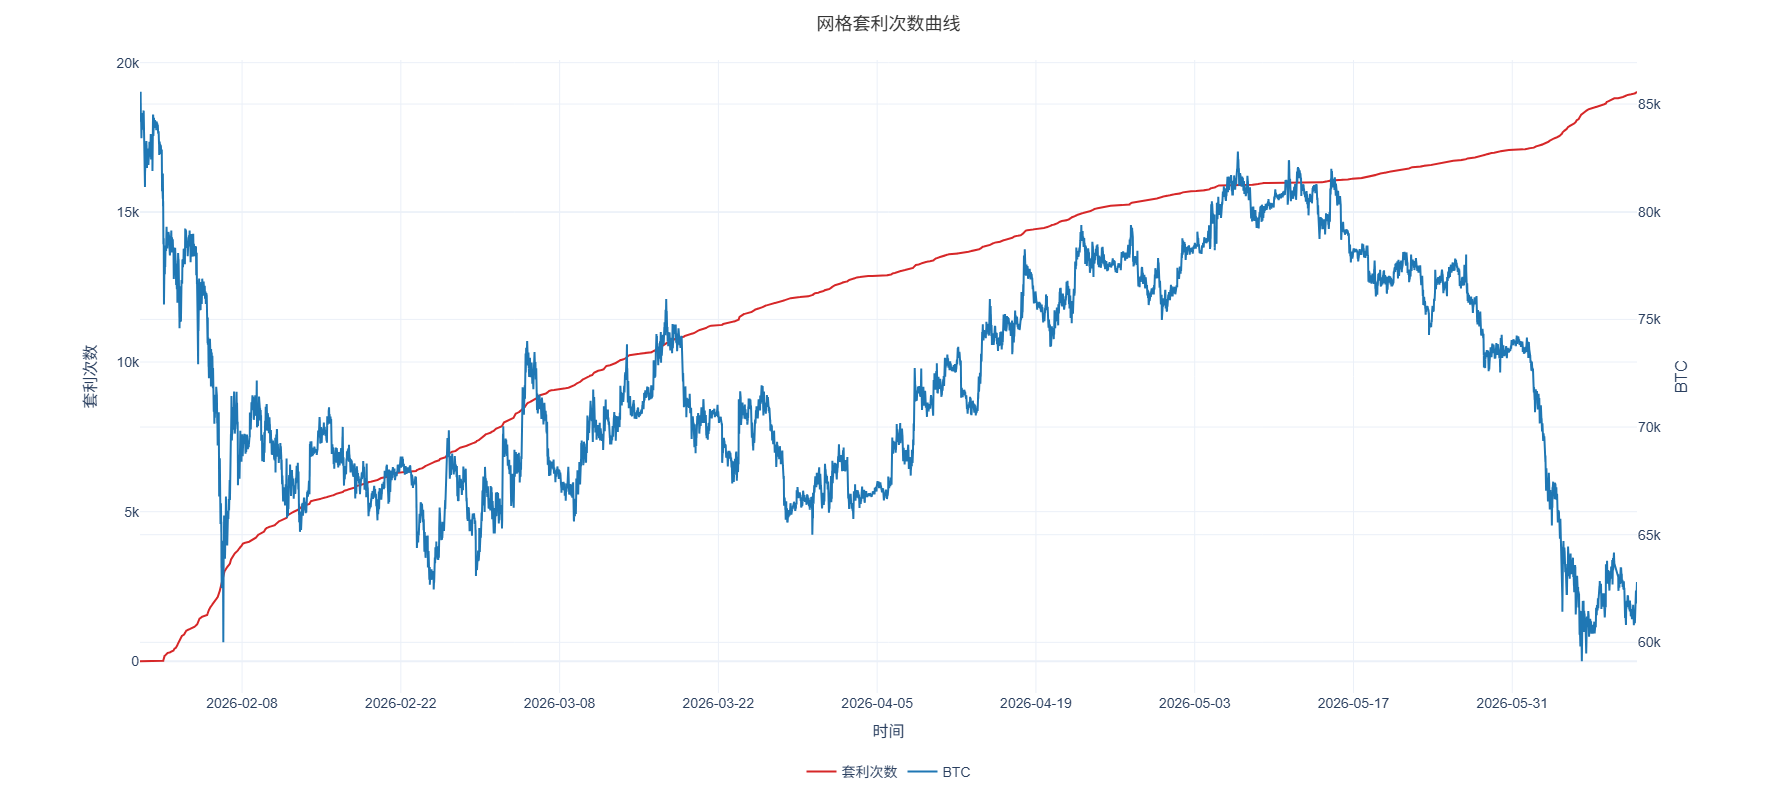
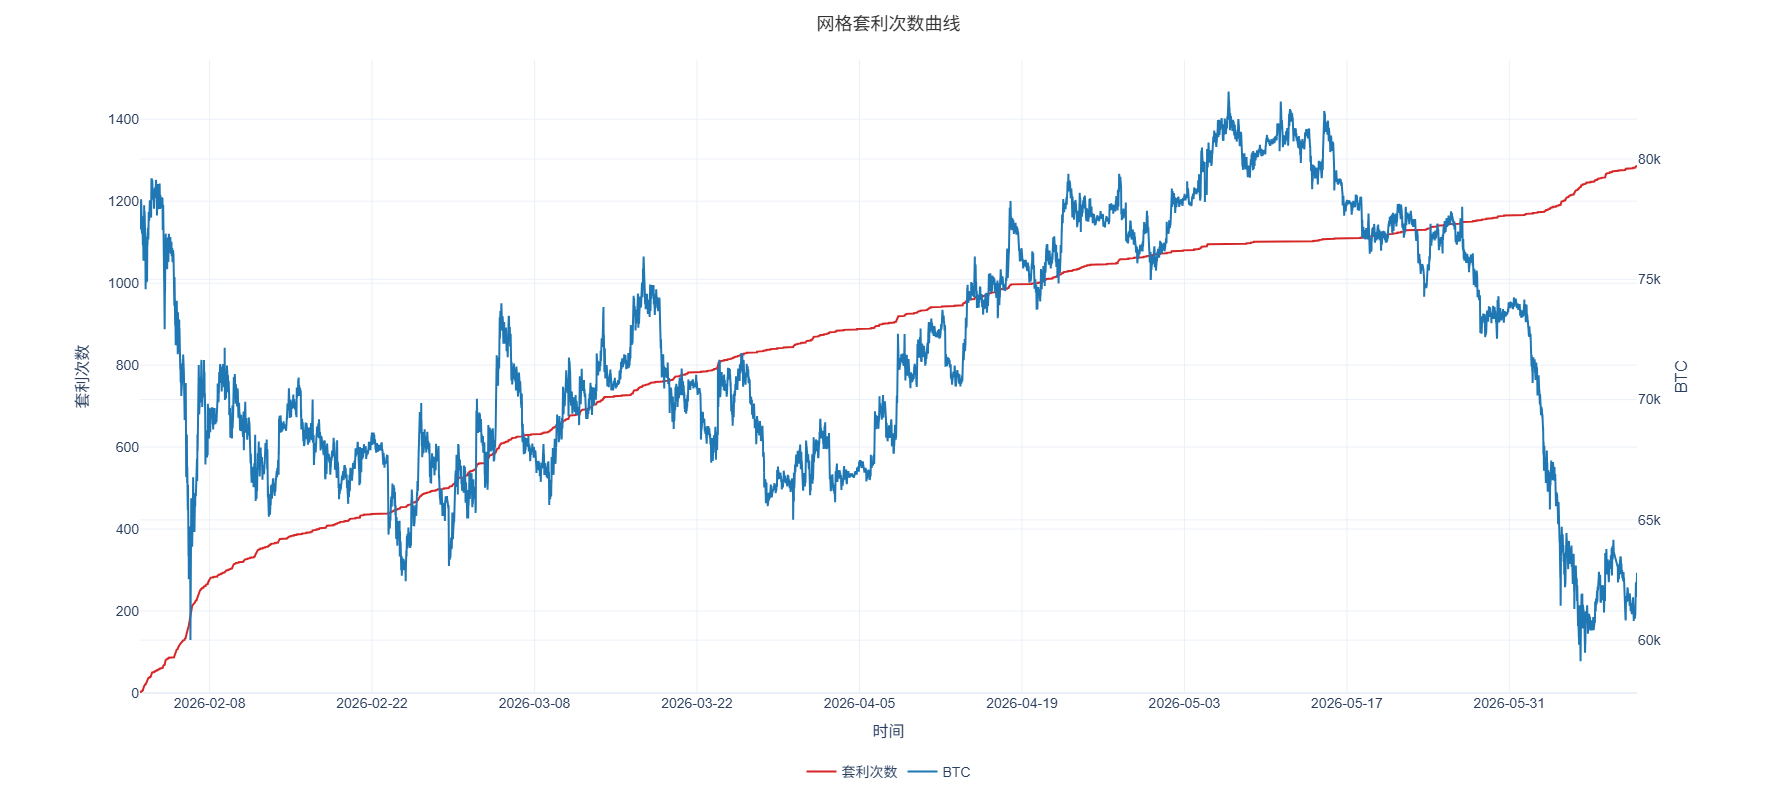
修改html、舍入精度、readme等

diff --git a/modules/visualization.py b/modules/visualization.py
@@ -308,10 +308,6 @@ class Visualization:
         
         <div class="summary-card">
             <div class="card">
-                <div class="label">初始保证金</div>
-                <div class="value">${self.results['initial_margin']:.2f}</div>
-            </div>
-            <div class="card">
                 <div class="label">最终权益</div>
                 <div class="value">${self.results['final_equity']:.2f}</div>
             </div>
@@ -324,12 +320,16 @@ class Visualization:
                 <div class="value">{self.results['return_rate']:.2f}%</div>
             </div>
             <div class="card">
+                <div class="label">网格套利利润</div>
+                <div class="value">${self.results['grid_arbitrage_pnl']:.2f}</div>
+            </div>
+            <div class="card">
                 <div class="label">网格套利次数</div>
                 <div class="value">{self.results['grid_arbitrage_count']}</div>
             </div>
             <div class="card">
-                <div class="label">总手续费</div>
-                <div class="value">${self.results['total_fee']:.2f}</div>
+                <div class="label">网格套利年化收益率</div>
+                <div class="value">{self.results['grid_annualized_return']:.2f}%</div>
             </div>
             <div class="card">
                 <div class="label">最大回撤</div>

diff --git a/modules/grid_strategy.py b/modules/grid_strategy.py
@@ -172,7 +172,7 @@ class GridStrategy:
             # 用平均价格计算基准张数，所有网格统一用这个张数
             avg_grid_price = self.calculate_portfolio_avg_entry()
             position_size_per_grid = position_value_per_grid / avg_grid_price
-            lots_per_grid = round(position_size_per_grid / self.contract_size, 2)
+            lots_per_grid = position_size_per_grid / self.contract_size
             self.safe_lots_per_grid = max(lots_per_grid, self.min_lot_size)
             self.notional_per_grid = None
         else:
@@ -182,7 +182,7 @@ class GridStrategy:
             # 用平均价格计算一个基准张数（仅供参考显示）
             avg_grid_price = self.calculate_portfolio_avg_entry()
             reference_size = position_value_per_grid / avg_grid_price
-            reference_lots = round(reference_size / self.contract_size, 2)
+            reference_lots = reference_size / self.contract_size
             self.safe_lots_per_grid = max(reference_lots, self.min_lot_size)
         
         return self.safe_lots_per_grid
@@ -352,8 +352,9 @@ class GridStrategy:
             prec = 4
         else:
             prec = 2
-        amt_str = f"{position_amt:.{prec}f}".rstrip('0').rstrip('.')
-        p(f"  开仓数量: {amt_str} {self.contract_type}")
+        # 显示时保留4位小数，但内部计算仍使用原始精度
+        display_amt = f"{position_amt:.4f}"
+        p(f"  开仓数量: {display_amt} {self.contract_type}")
         
         # 预估强平价（所有网格都开仓时）
         safety_results = self.verify_strategy_safety(total_margin)

diff --git a/README.md b/README.md
@@ -1,6 +1,6 @@
 # 合约网格策略回测系统
 
-基于 Python 的合约网格策略历史回测系统，采用Trae、Qoder辅助开发，支持从 **Binance 交易所**获取 USDT 本位永续合约K线数据，进行网格策略回测并生成可视化报告。
+基于 Python 的合约网格策略历史回测系统，采用Trae、Qoder辅助开发，支持从 Binance交易所获取 USDT 本位永续合约K线数据，进行网格策略回测并生成可视化报告。
 
 ## 示例结果图
 
@@ -36,8 +36,7 @@ grid_test/
 │   └── visualization.py      # 可视化报告生成（Plotly HTML）
 ├── data/                     # K线数据缓存目录（Parquet 格式）
 ├── results/                  # 回测结果输出目录（xlsx + html）
-├── dist/GridTrading.exe      # 打包好的可执行程序
-└── .venv/                    # Python 虚拟环境
+└── dist/GridTrading.exe      # 打包好的可执行程序
 ```
 
 ## 快速开始
@@ -65,6 +64,17 @@ python gui.py
 
 # 或命令行回测
 python main.py --symbol ETH --lower_bound 1110.88 --upper_bound 2221.78 --grid_count 200 --leverage 3 --direction 多 --total_margin 10000
+```
+
+## CLI 命令行参数
+
+```bash
+python main.py --symbol ETH --lower_bound 1110.88 --upper_bound 2221.78 \
+               --grid_count 200 --grid_mode 等差 --leverage 3 \
+               --direction 多 --total_margin 10000 \
+               --start_time "2026-05-28 00:00:00" --end_time "2026-06-11 00:00:00" \
+               --kline_period 1m --contract_size 0.1 --min_lot_size 0.01 \
+               --taker_fee 0.0005 --maker_fee 0.0002
 ```
 
 ## GUI 参数说明
@@ -96,17 +106,6 @@ python fetch_specs.py
 
 该命令会从 OKX API 获取全部 USDT 本位永续合约的规格数据（contract_size 和 min_lot），并保存到 `contract_specs.json`。
 
-## CLI 命令行参数
-
-```bash
-python main.py --symbol ETH --lower_bound 1110.88 --upper_bound 2221.78 \
-               --grid_count 200 --grid_mode 等差 --leverage 3 \
-               --direction 多 --total_margin 10000 \
-               --start_time "2026-05-28 00:00:00" --end_time "2026-06-11 00:00:00" \
-               --kline_period 1m --contract_size 0.1 --min_lot_size 0.01 \
-               --taker_fee 0.0005 --maker_fee 0.0002
-```
-
 ## 核心算法
 
 - **等差网格**：价格区间均匀划分，每个网格固定张数
@@ -119,49 +118,49 @@ python main.py --symbol ETH --lower_bound 1110.88 --upper_bound 2221.78 \
 
 回测完成后，系统会在控制台打印以下指标：
 
-#### 1. **最终权益** (`final_equity`)
+#### 1. **最终权益** (**final_equity**)
 - **含义**: 回测结束时账户总资金（可用保证金 + 持仓保证金 + 总盈亏）
-- **计算公式**: `可用保证金 + 持仓保证金 + 总利润`
+- **计算公式**: 可用保证金 + 持仓保证金 + 总利润
 
-#### 2. **总利润** (`total_pnl`)
+#### 2. **总利润** (**total_pnl**)
 - **含义**: 回测期间账户净收益
-- **计算公式**: `(已实现利润 - 总手续费) + 未实现利润`
+- **计算公式**: (已实现利润 - 总手续费) + 未实现利润
 
-##### 2.1 **已实现利润** (`realized_pnl`)
+##### 2.1 **已实现利润** (**realized_pnl**)
 - **含义**: 所有平仓交易的净收益（扣除手续费）
 - **计算公式**: 平仓收益 - 总手续费
 
-##### 2.2 **未实现利润** (`unrealized_pnl`)
+##### 2.2 **未实现利润** (**unrealized_pnl**)
 - **含义**: 当前持仓按最后价格计算的浮动盈亏
 
-##### 2.3 **网格套利利润** (`grid_arbitrage_pnl`)
+##### 2.3 **网格套利利润** (**grid_arbitrage_pnl**)
 - **含义**: 纯粹网格套利收益（排除初始建仓影响）
-- **计算公式**: `套利次数 × 网格间距 × 单网格数量 - 网格交易手续费`
+- **计算公式**: 套利次数 × 网格间距 × 单网格数量 - 网格交易手续费
 
-#### 3. **总手续费** (`total_fee`)
+#### 3. **总手续费** (**total_fee**)
 - **含义**: 回测期间支付的所有手续费
 - **组成**: 初始建仓市价手续费 + 后续交易限价手续费
 
-#### 4. **网格套利次数** (`grid_arbitrage_count`)
+#### 4. **网格套利次数** (**grid_arbitrage_count**)
 - **含义**: 成功完成的网格套利交易次数（低买高卖或高卖低买）
 
-#### 5. **收益率** (`return_rate`)
+#### 5. **收益率** (**return_rate**)
 - **含义**: 回测期间总收益率
-- **计算公式**: `(总利润 / 初始保证金) × 100%`
+- **计算公式**: (总利润 / 初始保证金) × 100%
 
-#### 6. **年化收益率** (`annualized_return`)
+#### 6. **年化收益率** (**annualized_return**)
 - **含义**: 将回测收益折算为年化收益率
-- **计算公式**: `收益率 × (365 / 回测天数)`
+- **计算公式**: 收益率 × (365 / 回测天数)
 
-#### 7. **网格套利年化收益率** (`grid_annualized_return`)
+#### 7. **网格套利年化收益率** (**grid_annualized_return**)
 - **含义**: 基于纯粹网格套利收益的年化收益率
-- **计算公式**: `(网格套利利润 / 初始保证金) × (365 / 回测天数) × 100%`
+- **计算公式**: (网格套利利润 / 初始保证金) × (365 / 回测天数) × 100%
 
-#### 8. **最大回撤** (`max_drawdown`)
+#### 8. **最大回撤** (**max_drawdown**)
 - **含义**: 回测期间权益从峰值到谷值的最大跌幅
 - **重要性**: 衡量策略最大风险水平
 
-#### 9. **未平仓持仓** (`open_positions`)
+#### 9. **未平仓持仓** (**open_positions**)
 - **含义**: 回测结束时尚未平仓的网格数量
 
 ### 文件输出结果
@@ -198,3 +197,6 @@ python main.py --symbol ETH --lower_bound 1110.88 --upper_bound 2221.78 \
 - 数据获取失败原因：VPN、访问限制、时间周期超出范围等
 
 - 项目中可能存在潜在BUG、回测结果数据仅供参考
+
+
+由于本人非CS相关专业出身，能力与时间有限，大家有兴趣的可以在此基础上进行优化改进！